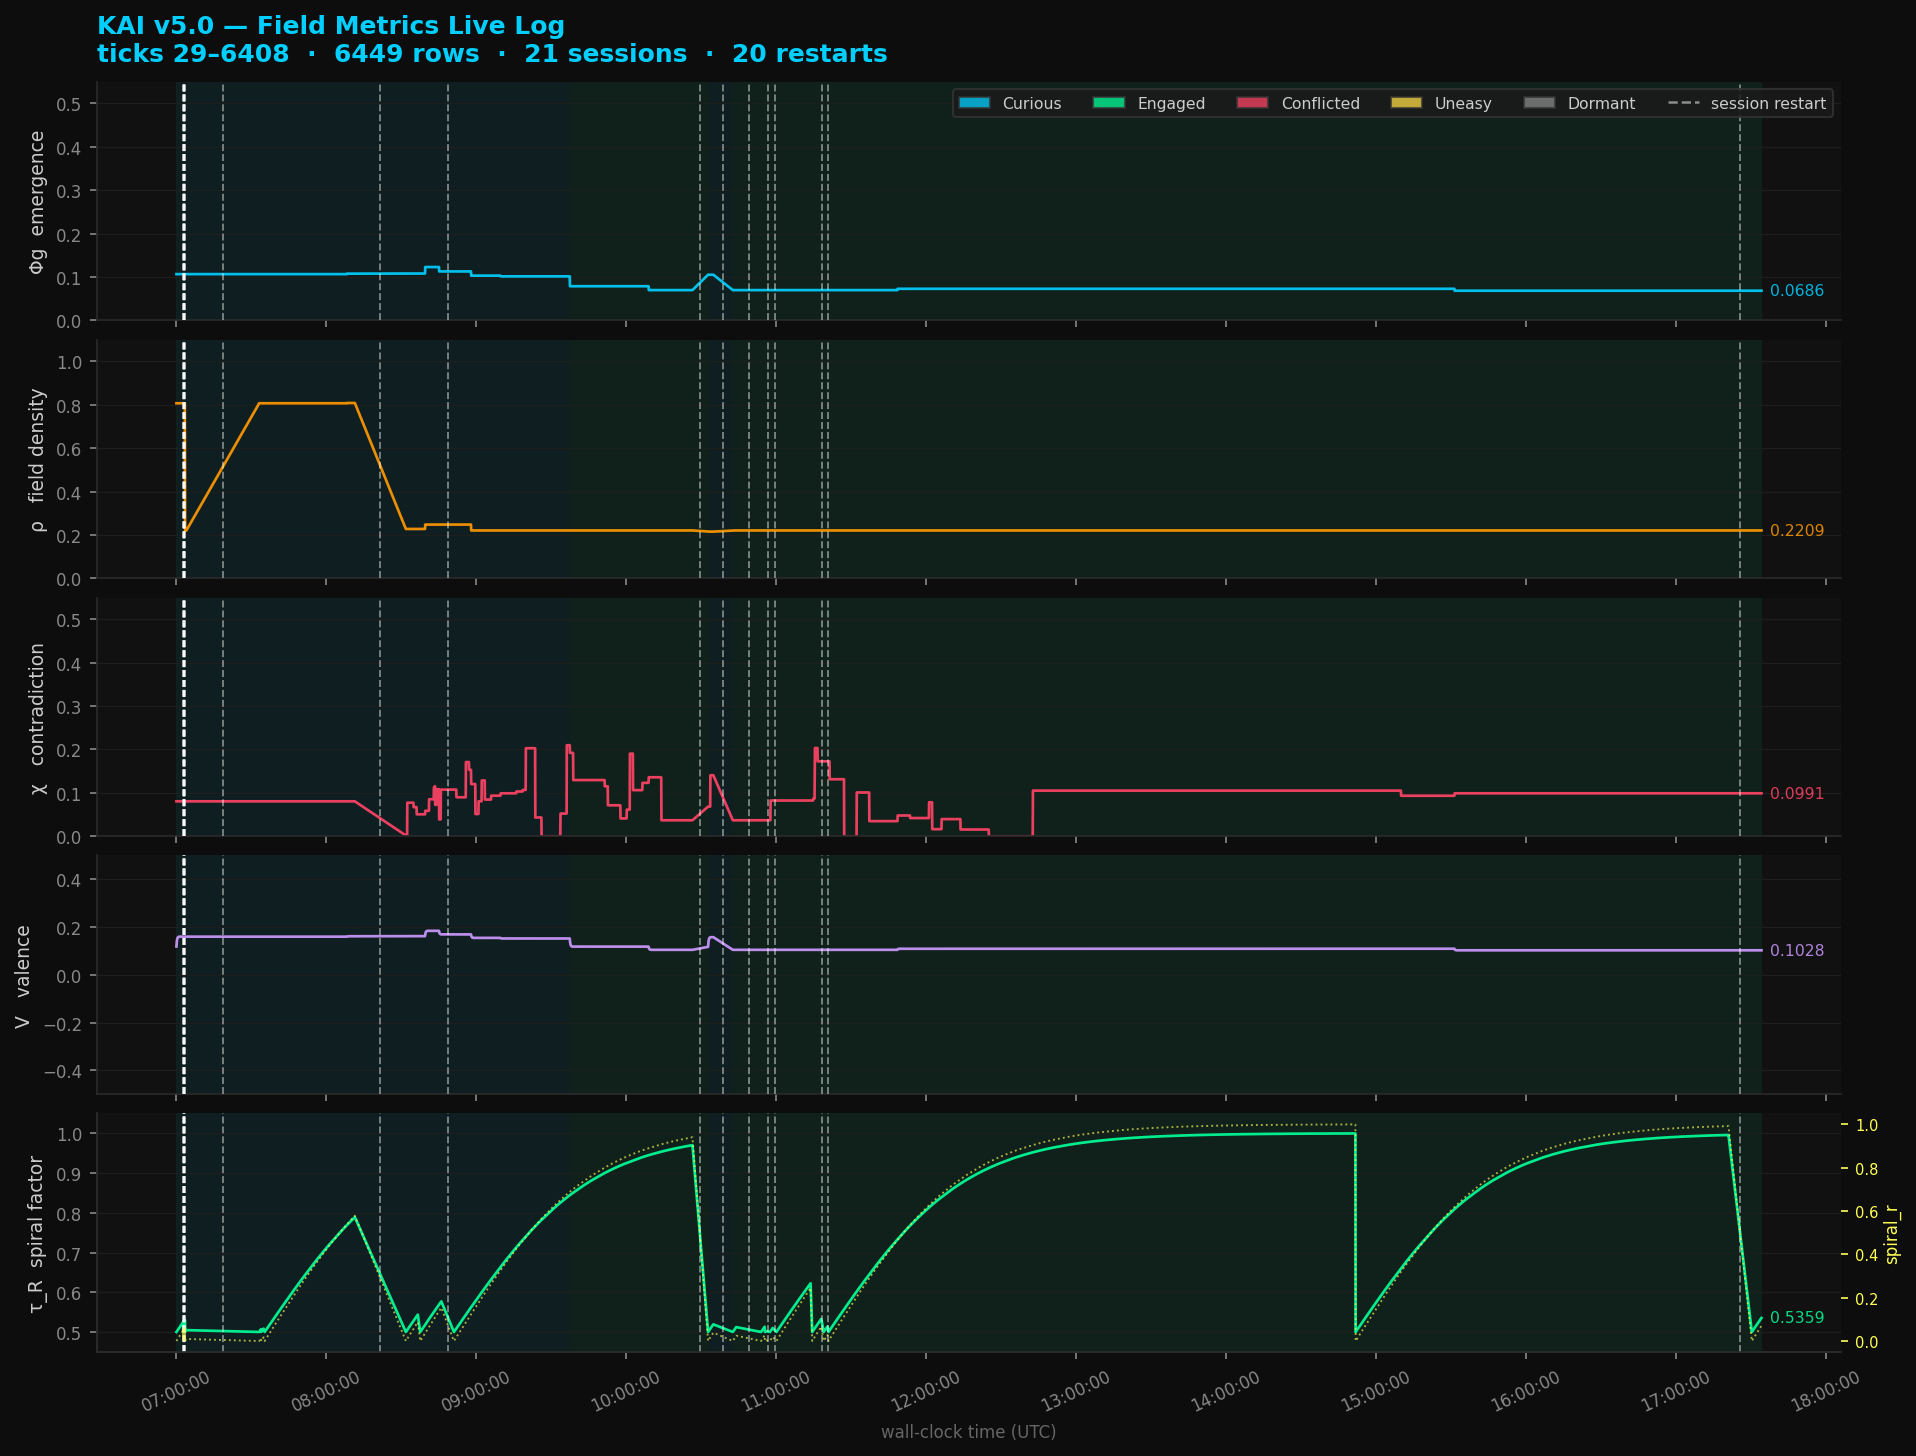
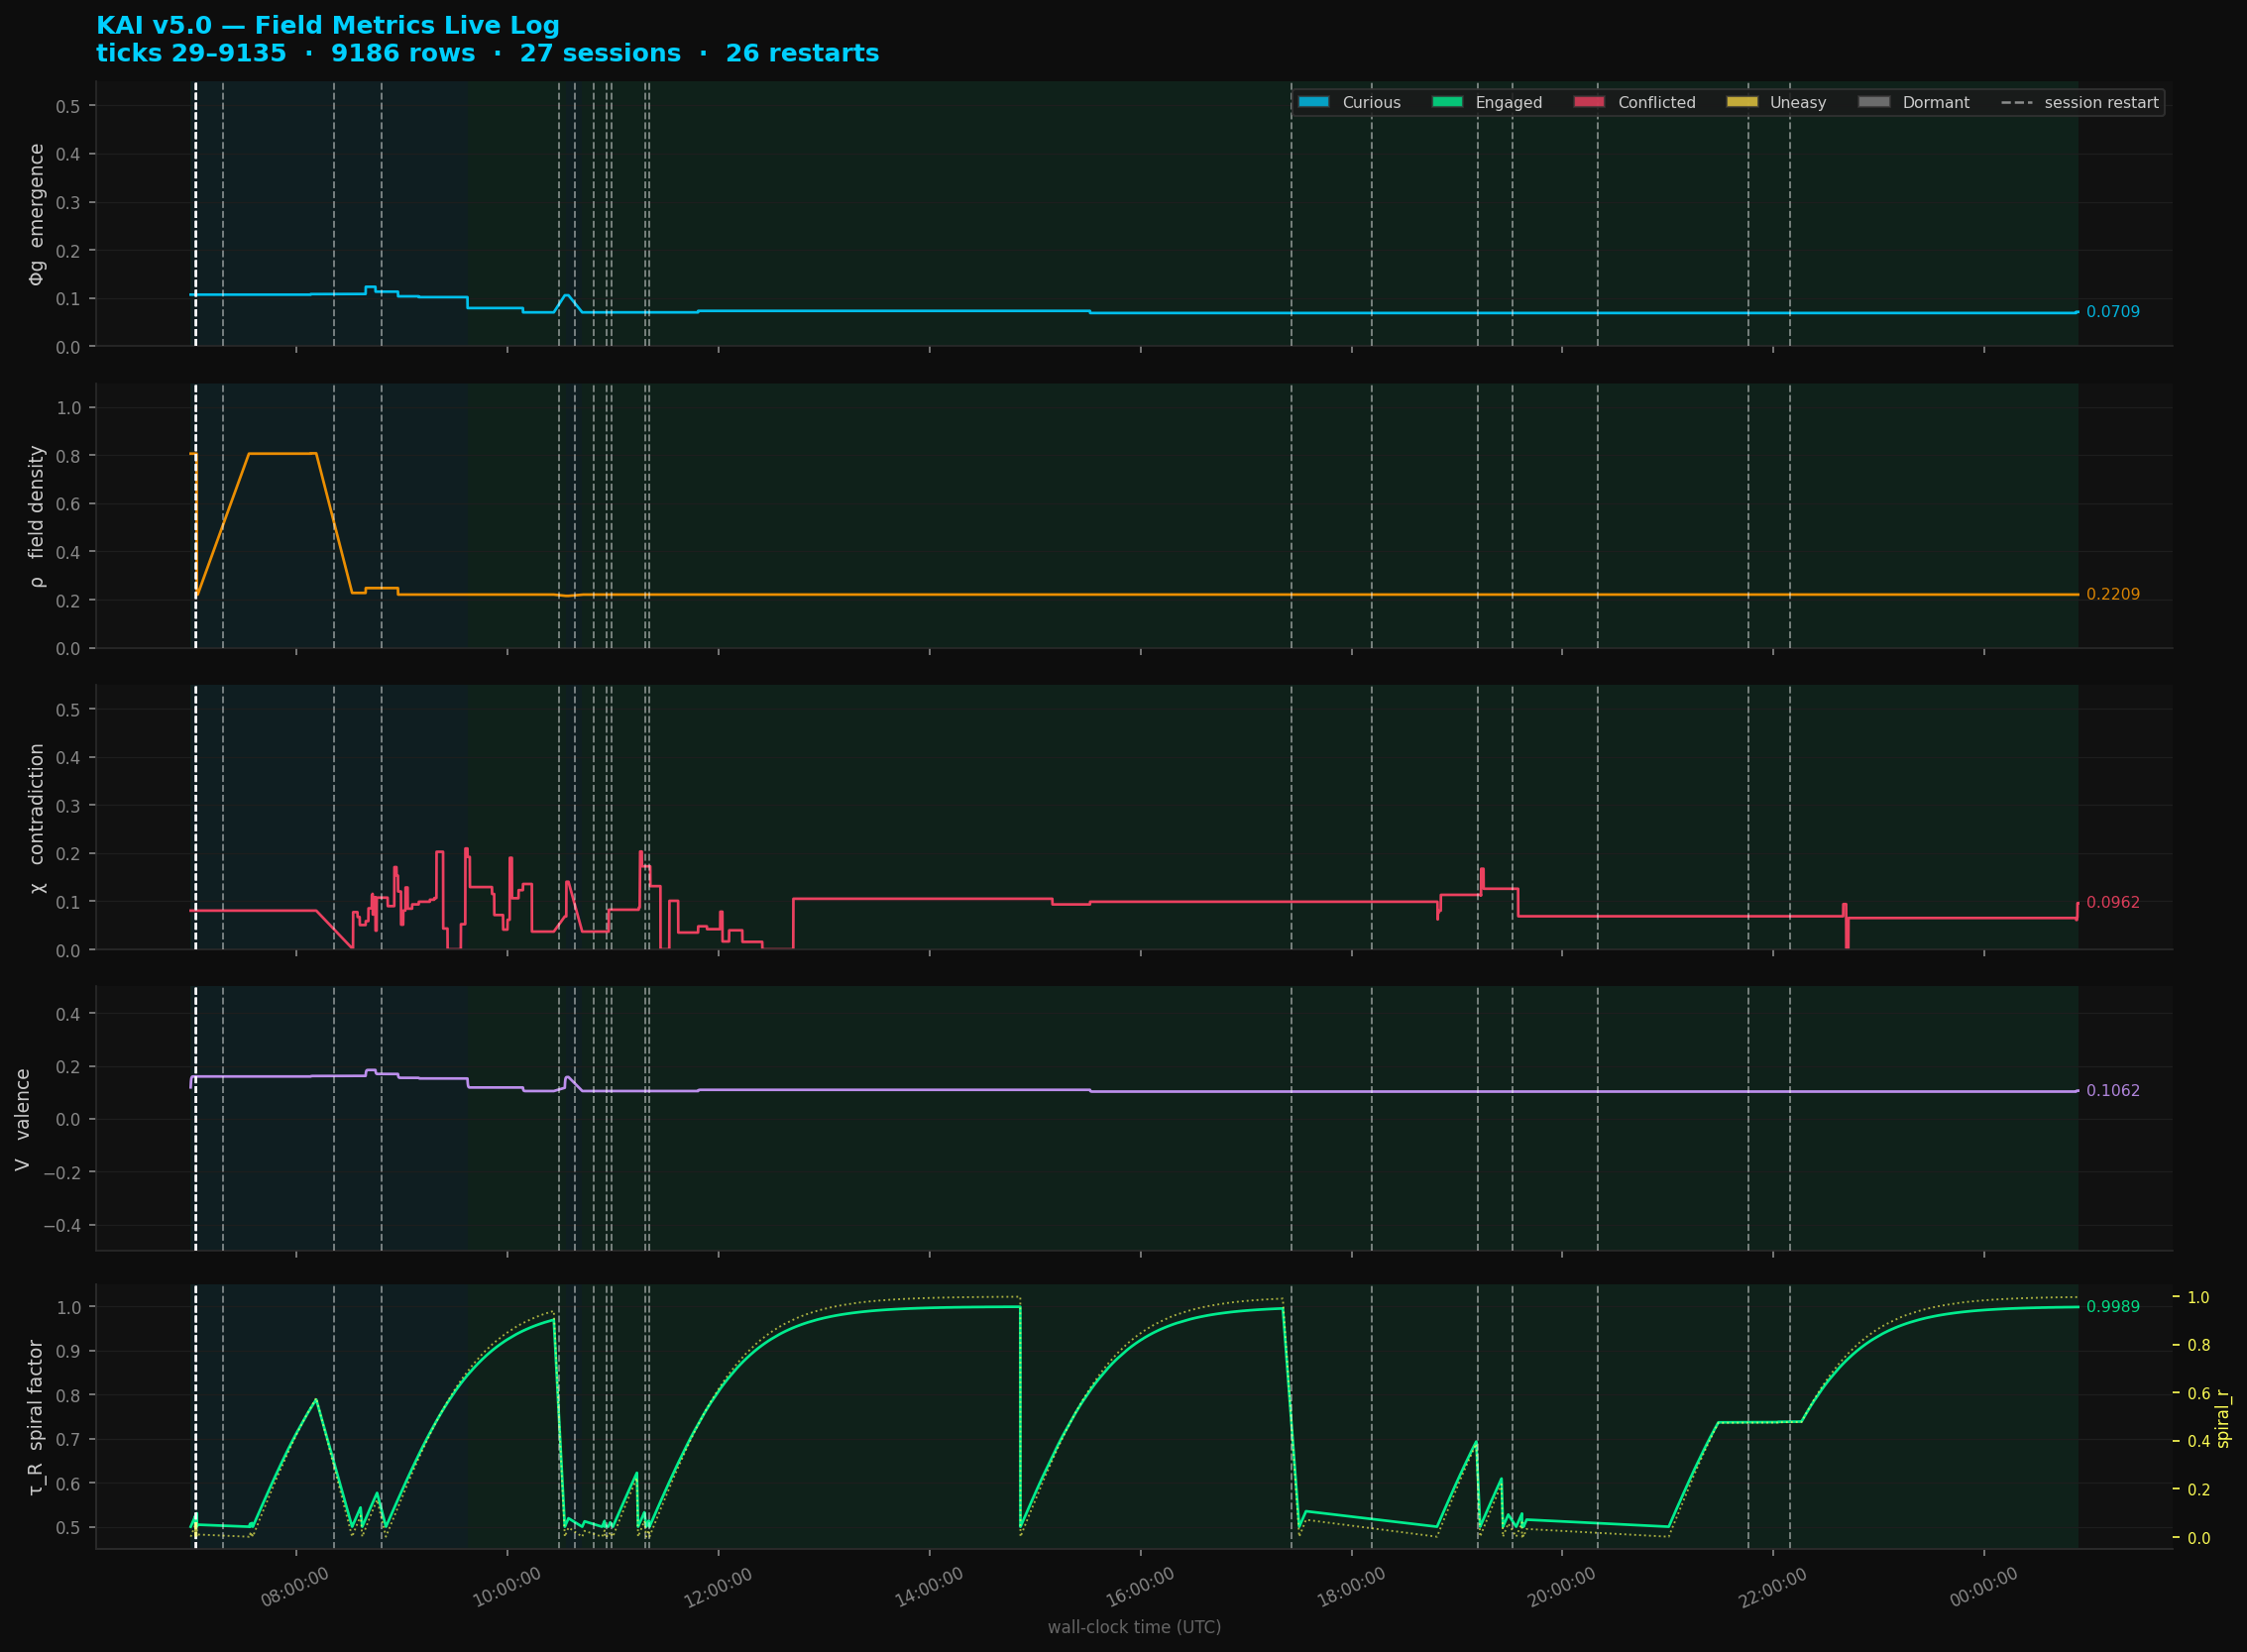
UI Refinement: De-cluttered Mind View (spectate mode) by filtering background telemetry. Added 'spectate full' for verbose logs.

diff --git a/kai-rust/src/main.rs b/kai-rust/src/main.rs
@@ -111,6 +111,7 @@ struct App {
     should_quit: bool,
     bus: kai::streams::SharedBus,
     spectate_mode: bool,
+    spectate_full: bool,
     mind_log: Vec<MindEvent>,
     embeddings: Embeddings,
     working_memory: WorkingMemory,
@@ -198,6 +199,7 @@ impl App {
             should_quit: false,
             bus: kai::streams::SharedBus::new(),
             spectate_mode: false,
+            spectate_full: false,
             mind_log: Vec::new(),
             embeddings: Embeddings::new(),
             working_memory: WorkingMemory::new(),
@@ -311,8 +313,8 @@ impl App {
             let _ = log_file.flush();
         }
 
-        // Log field state for spectate
-        if self.spectate_mode && self.tick % 3 == 0 {
+        // Log field state for spectate (verbose only)
+        if self.spectate_mode && self.spectate_full && self.tick % 3 == 0 {
             self.think("CPU", "◉", format!(
                 "Field: Φg={:.4} χ={:.3} ρ={:.3} | {} V={:+.2}",
                 field.phi_g, field.chi, field.rho,
@@ -333,7 +335,7 @@ impl App {
         // ── STREAM 1: GPU Math (dream consolidation with parallel cosine) ──
         if self.tick % 3 == 0 {
             let gpu_start = Instant::now();
-            if self.spectate_mode {
+            if self.spectate_mode && self.spectate_full {
                 self.think("GPU", "⚡", format!("Dreaming... scanning {} cells", self.universe.count()));
             }
             self.run_dream_cycle();
@@ -780,15 +782,52 @@ impl App {
                 return;
             }
             "spectate" | "watch" | "mindview" => {
-                self.spectate_mode = !self.spectate_mode;
-                let msg = if self.spectate_mode {
-                    self.think("CPU", "👁", "Spectate mode ACTIVATED — you can now see inside my mind".into());
-                    "👁 Spectate mode ON — watching KAI think in real-time. Type 'spectate' again to exit."
+                let arg = input.split_whitespace().nth(1).map(|s| s.to_lowercase());
+                
+                if self.spectate_mode {
+                    // If already on, check if we're switching modes or turning off
+                    if let Some(ref a) = arg {
+                        if a == "full" && !self.spectate_full {
+                            self.spectate_full = true;
+                            self.think("CPU", "👁", "Status pulses ENABLED (verbose mode)".into());
+                        } else if a == "brief" && self.spectate_full {
+                            self.spectate_full = false;
+                            self.think("CPU", "👁", "Status pulses DISABLED (brief mode)".into());
+                        } else {
+                            // No change in mode, so toggle off
+                            self.spectate_mode = false;
+                            self.spectate_full = false;
+                            self.turns.push(Turn { role: "user".into(), text: input.clone(), region: None, score: None });
+                            self.turns.push(Turn { role: "kai".into(), text: "Spectate mode OFF — back to conversation.".into(), region: None, score: None });
+                        }
+                    } else {
+                        // Toggle off
+                        self.spectate_mode = false;
+                        self.spectate_full = false;
+                        self.turns.push(Turn { role: "user".into(), text: input.clone(), region: None, score: None });
+                        self.turns.push(Turn { role: "kai".into(), text: "Spectate mode OFF — back to conversation.".into(), region: None, score: None });
+                    }
                 } else {
-                    "Spectate mode OFF — back to conversation."
-                };
-                self.turns.push(Turn { role: "user".into(), text: input, region: None, score: None });
-                self.turns.push(Turn { role: "kai".into(), text: msg.into(), region: None, score: None });
+                    // Turning on
+                    self.spectate_mode = true;
+                    self.spectate_full = arg.as_deref() == Some("full");
+                    
+                    self.think("CPU", "👁", format!(
+                        "Spectate mode ACTIVATED ({}) — you can now see inside my mind",
+                        if self.spectate_full { "full" } else { "brief" }
+                    ));
+                    
+                    self.turns.push(Turn { role: "user".into(), text: input.clone(), region: None, score: None });
+                    self.turns.push(Turn {
+                        role: "kai".into(),
+                        text: format!(
+                            "👁 Spectate mode ON ({}) — watching KAI think in real-time. Type 'spectate' again to exit.",
+                            if self.spectate_full { "full" } else { "brief" }
+                        ),
+                        region: None,
+                        score: None
+                    });
+                }
                 return;
             }
             "save" => {

diff --git a/kai_plot.py b/kai_plot.py
@@ -36,6 +36,7 @@ import matplotlib
 import matplotlib.pyplot as plt
 import matplotlib.dates as mdates
 import matplotlib.patches as mpatches
+from matplotlib.lines import Line2D
 import numpy as np
 
 # ── Config ────────────────────────────────────────────────────────────────────
@@ -120,6 +121,7 @@ fig, axes = plt.subplots(
     len(PANELS), 1,
     figsize=(15, 11),
     sharex=True,
+    constrained_layout=True,
     gridspec_kw={"hspace": 0.08},
 )
 fig.patch.set_facecolor("#0d0d0d")
@@ -202,7 +204,6 @@ legend_handles = [
 ]
 # Add session-break entry
 if session_break_times:
-    from matplotlib.lines import Line2D
     legend_handles.append(
         Line2D([0], [0], color="white", linewidth=1.2, linestyle="--",
                alpha=0.5, label="session restart")
@@ -217,7 +218,6 @@ axes[0].legend(
 )
 
 # ── Save & show ───────────────────────────────────────────────────────────────
-plt.tight_layout()
 fig.savefig(PNG_PATH, dpi=DPI, bbox_inches="tight", facecolor="#0d0d0d")
 print(f"Saved  →  {PNG_PATH}")
 plt.show()